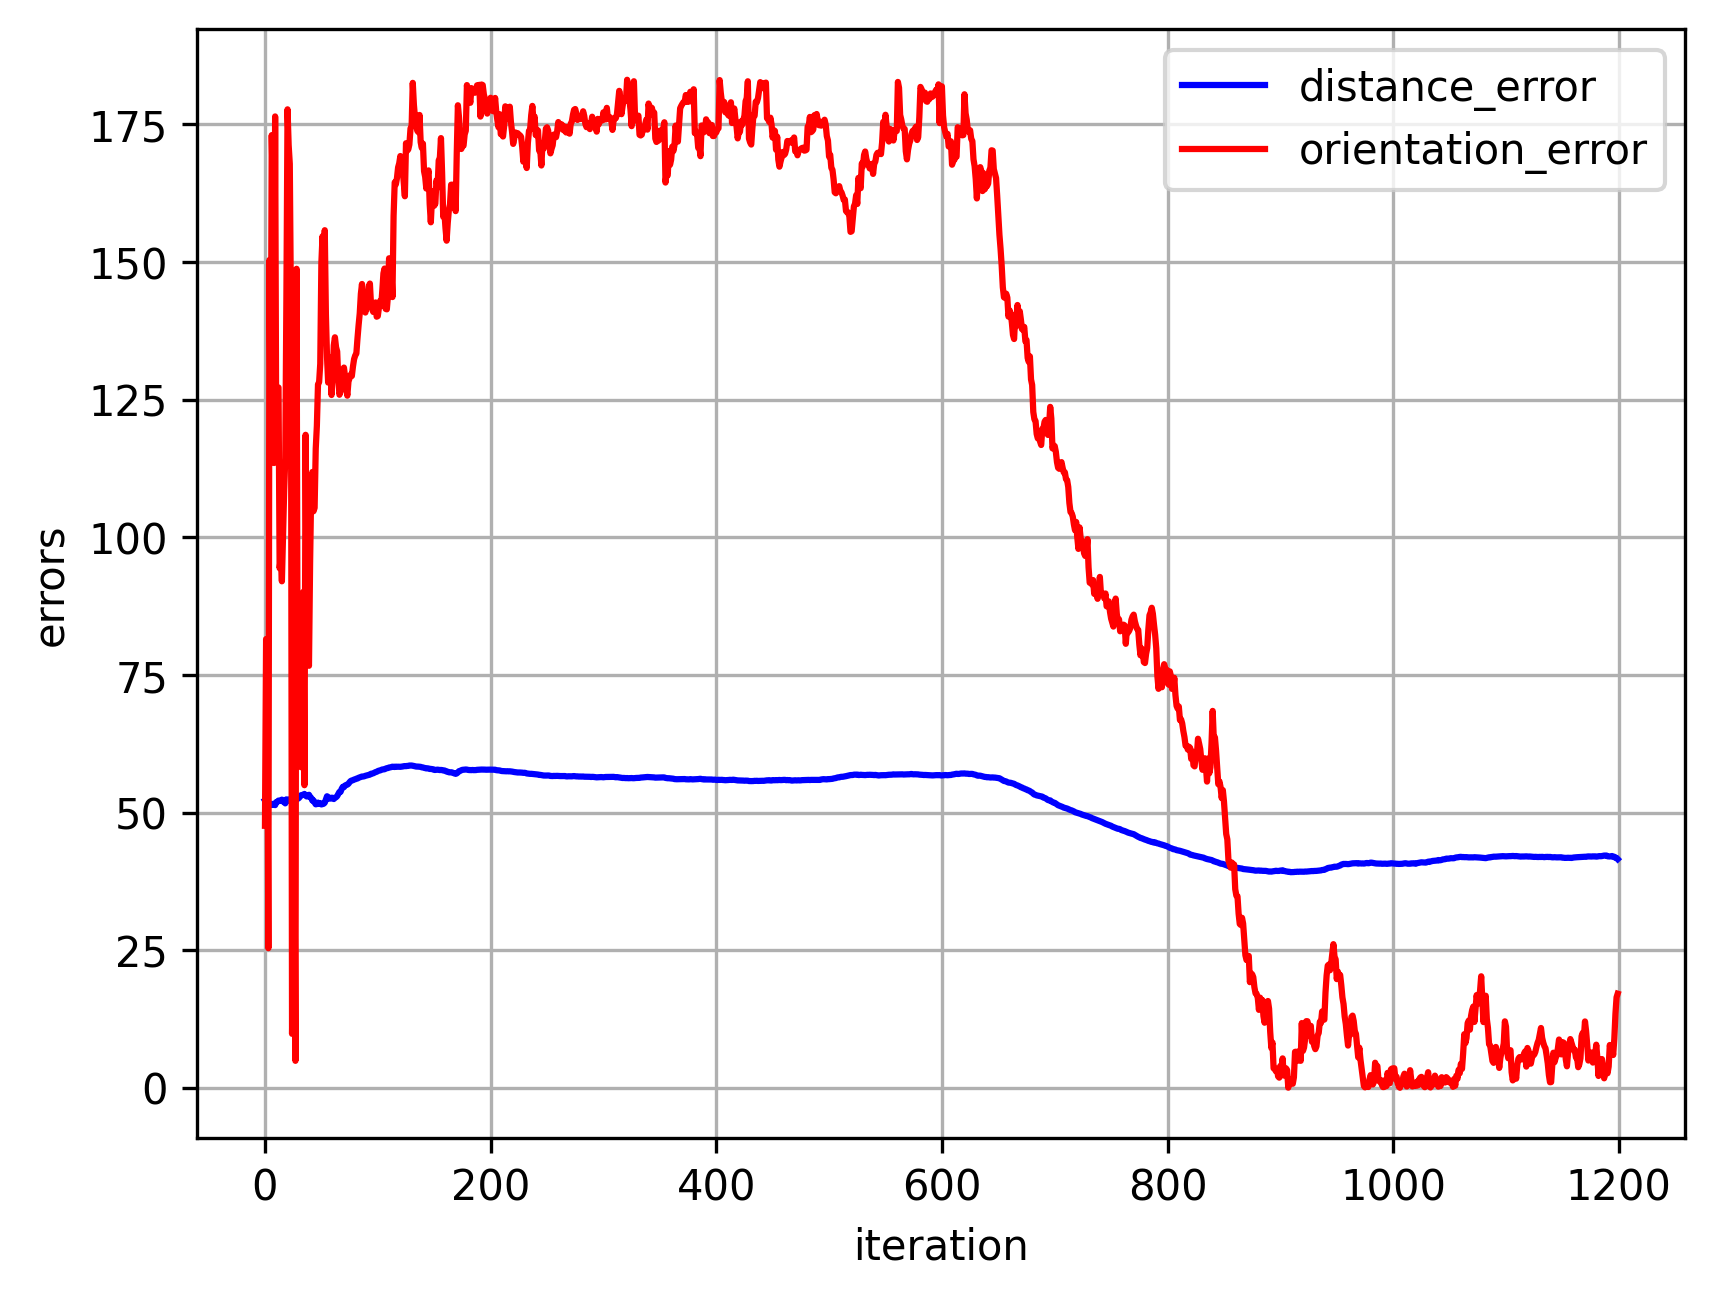
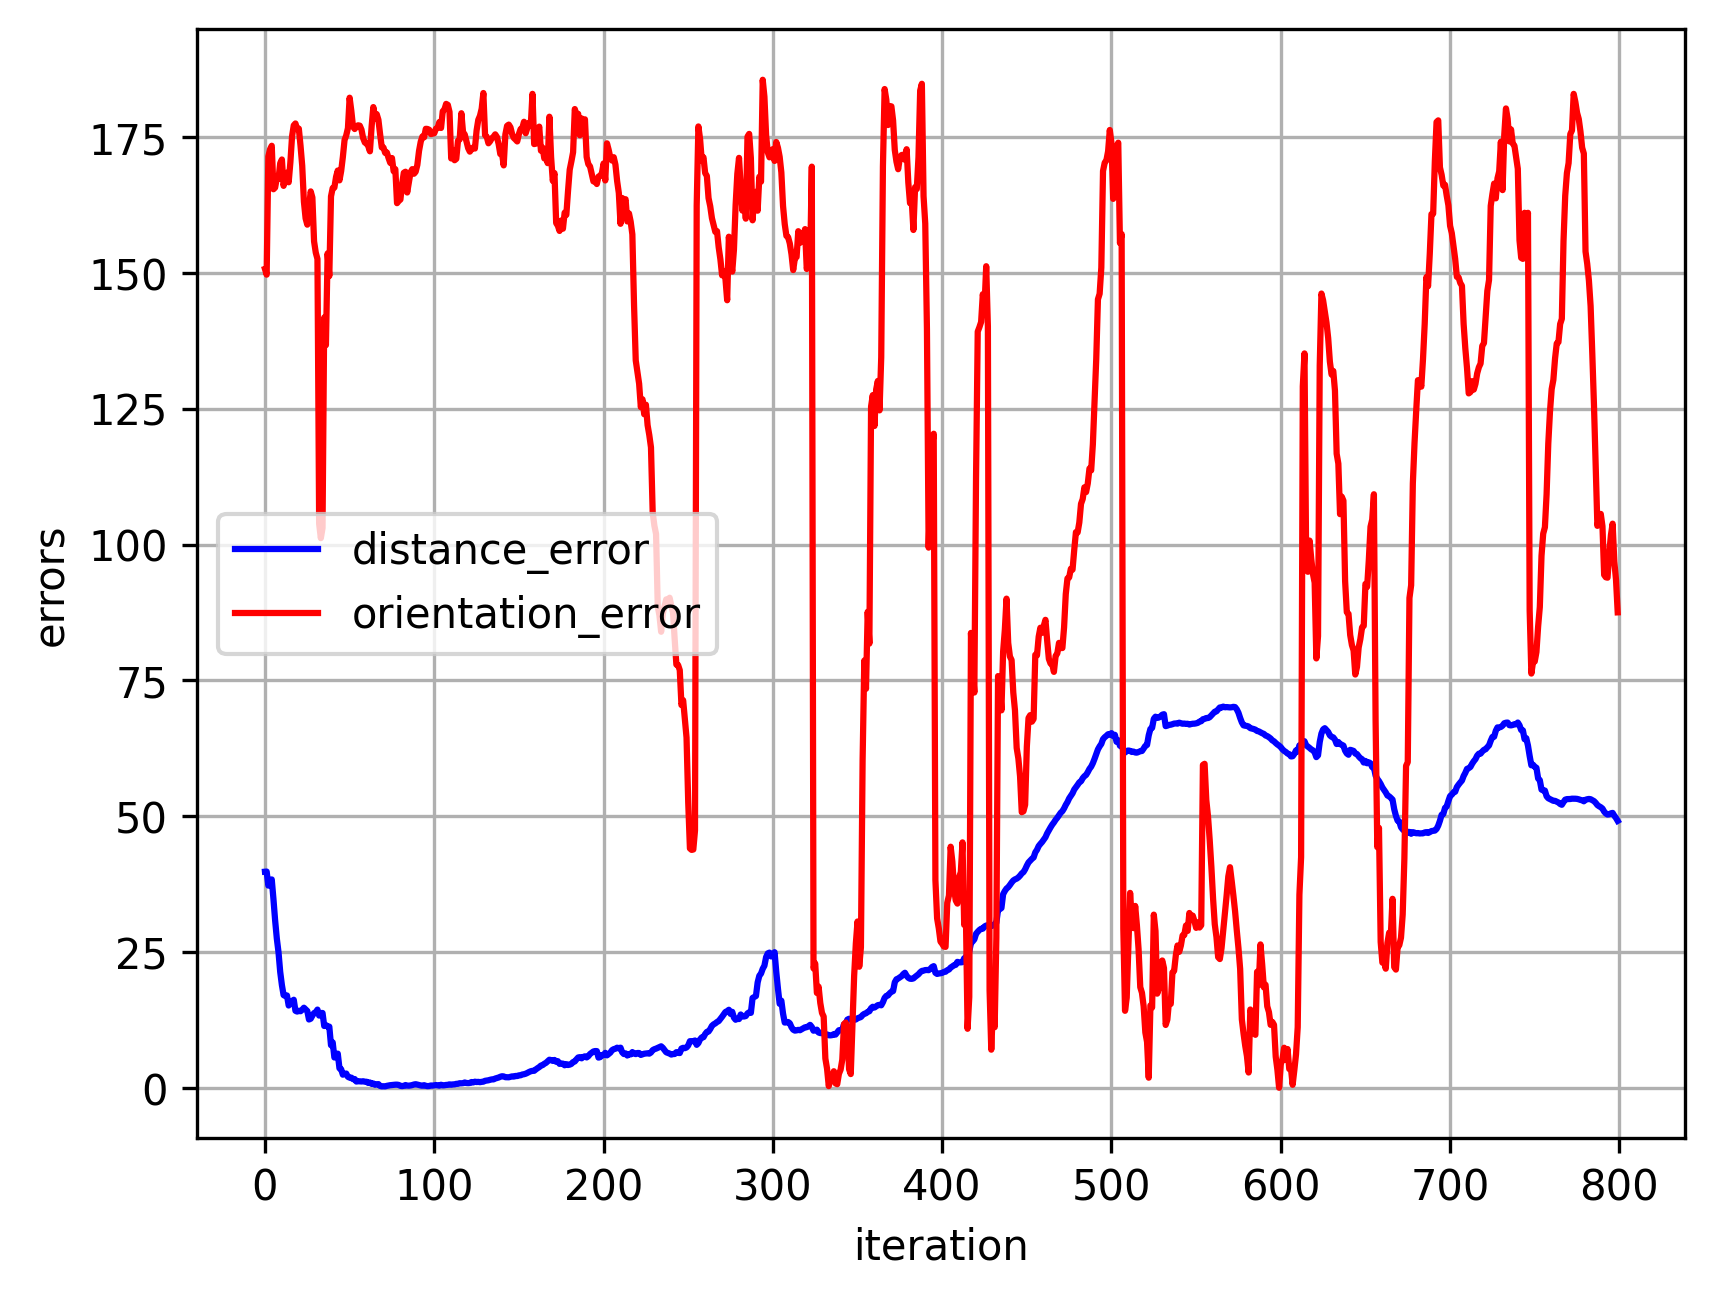
MP3 Completed with data recorded in report

diff --git a/src/mp3/src/particle_filter.py b/src/mp3/src/particle_filter.py
@@ -33,13 +33,13 @@ class particleFilter:
         for i in range(num_particles):
 
             # (Default) The whole map
-            # x = np.random.uniform(0, world.width)
-            # y = np.random.uniform(0, world.height)
+            x = np.random.uniform(0, world.width)
+            y = np.random.uniform(0, world.height)
 
 
             ## first quadrant
-            x = np.random.uniform(world.width/2, world.width)
-            y = np.random.uniform(world.height/2, world.height)
+            # x = np.random.uniform(world.width/2, world.width)
+            # y = np.random.uniform(world.height/2, world.height)
 
             particles.append(Particle(x = x, y = y, maze = world, sensor_limit = sensor_limit))
 
@@ -143,7 +143,7 @@ class particleFilter:
                     idx = j
                     break
             particles_new.append(Particle(x = self.particles[idx].x, y = self.particles[idx].y , maze = self.world , heading = self.particles[idx].heading, 
-                                          weight = 1/self.num_particles, sensor_limit = self.sensor_limit, noisy=True))
+                                          weight = self.particles[idx].weight, sensor_limit = self.sensor_limit, noisy=True))
         ###############
 
         self.particles = particles_new
@@ -178,7 +178,7 @@ class particleFilter:
         # orientation_error = []
 
         count = 0 
-        for i in tqdm(range(1200)):
+        for i in tqdm(range(800)):
             ## TODO: (i) Implement Section 3.2.2. (ii) Display robot and particles on map. (iii) Compute and save position/heading error to plot. #####
 
             # print('test')
@@ -194,7 +194,7 @@ class particleFilter:
             x_e, y_e, h_e = self.world.show_estimated_location(self.particles)
             self.world.show_robot(self.bob)
 
-            distance_error.append(np.sqrt(pow(self.bob.x - x_e, 2) + pow(y_e, 2)))
+            distance_error.append(np.sqrt(pow(self.bob.x - x_e, 2) + pow(self.bob.y - y_e, 2)))
             orientation_error.append(np.abs(self.bob.heading - h_e))
 
 

diff --git a/src/mp3/src/lidarProcessing.py b/src/mp3/src/lidarProcessing.py
@@ -314,7 +314,7 @@ class LidarProcessing:
             rear_right = self.sensor_limit
         
         # 4 Directions
-        # return [front*100, right*100, rear*100, left*100]
+        #return [front*100, right*100, rear*100, left*100]
         
         # 8 Directions
         return [front*100, right*100, rear*100, left*100, front_left * 100, front_right * 100, rear_left*100, rear_right*100]

diff --git a/src/mp3/src/maze.py b/src/mp3/src/maze.py
@@ -301,7 +301,7 @@ class Maze(object):
 
         # Return readings from sensor model in front, right, rear, left direction
         # 4 Directions
-        # return [d1*100, d2*100, d3*100, d4*100]
+        #return [d1*100, d2*100, d3*100, d4*100]
 
         # front_left, front_right, rear_left, rear_right
         # 8 Directions
